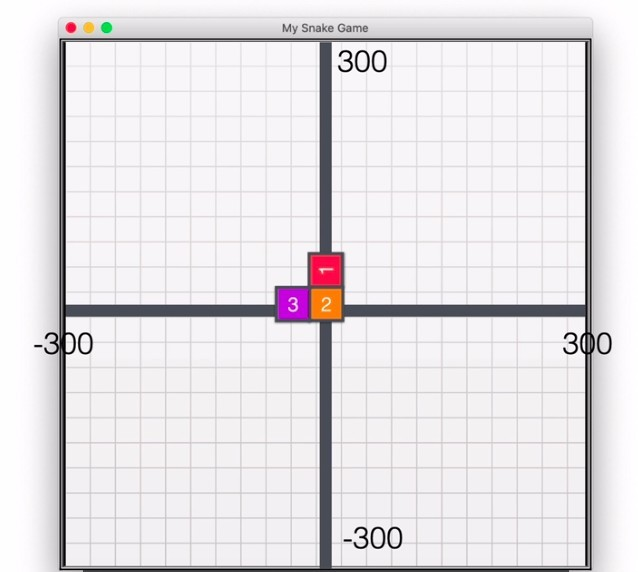
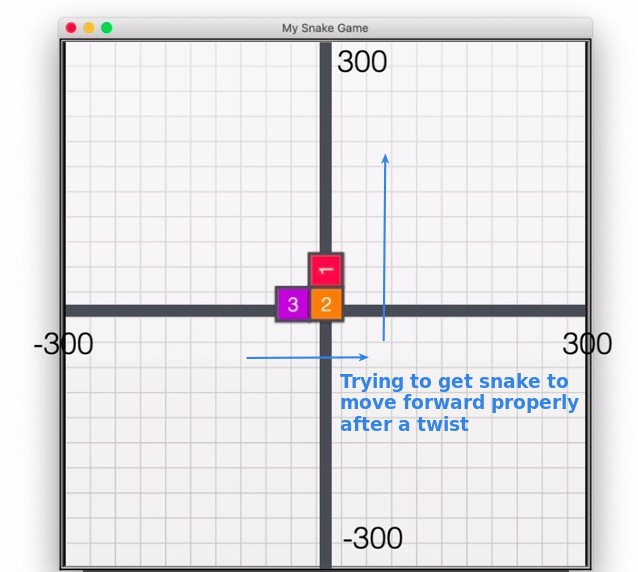
qq

Changed region(s): [[0.3871, 0.6241, 0.9232, 0.7727], [0.5956, 0.2675, 0.6254, 0.5944]]

diff --git a/day20/185-move-snake/memo.md b/day20/185-move-snake/memo.md
@@ -20,6 +20,8 @@
 
 ![Alt second try](pic/06.jpg)
 
+- Previously, .forward() had an effect similar to sleep() because the animation itself took time, but now that it is turned off, sleep() must be added.
+
 ## **Challenge 2: Moving with turning**
 
 ### _Instruction_
@@ -30,8 +32,14 @@
 
 ![Alt try turn 1st segment](pic/08.jpg)
 
+- Obviously it is not working to just let the first segment change direction. But hard to image another solution...
+
 ### _Change the logic of moving_
+
+> So the logic of moving forward may have to be replaced with a different approach.
 
 ![Alt change the logic of moving](pic/09.jpg)
 
 ![Alt test it](pic/10.jpg)
+
+- After changing the forward logic, it is easy to change direction, just control the first segment and the following ones will follow naturally.

diff --git a/day20/186-snake-class/memo.md b/day20/186-snake-class/memo.md
@@ -1,0 +1,21 @@
+## **Challenge: refactoring with Snake class**
+
+![Alt challenge: refactor with Snake class](pic/01.jpg)
+
+## **My solution**
+
+### _Build Snake class & initialize_
+
+![Alt class snake and initial part](pic/02.jpg)
+
+- A method in a class can refer directly to an attribute or other method in the same class via self, which is a subtle difference from a normal function.
+
+### _Snake movine codes_
+
+![Alt snake moving](pic/03.jpg)
+
+## **Lector's plus**
+
+![Alt lector's](pic/04.jpg)
+
+- Extracting important constants into global variables makes it easy to modify or observe them in the future, without having to look at the details of the codes.
